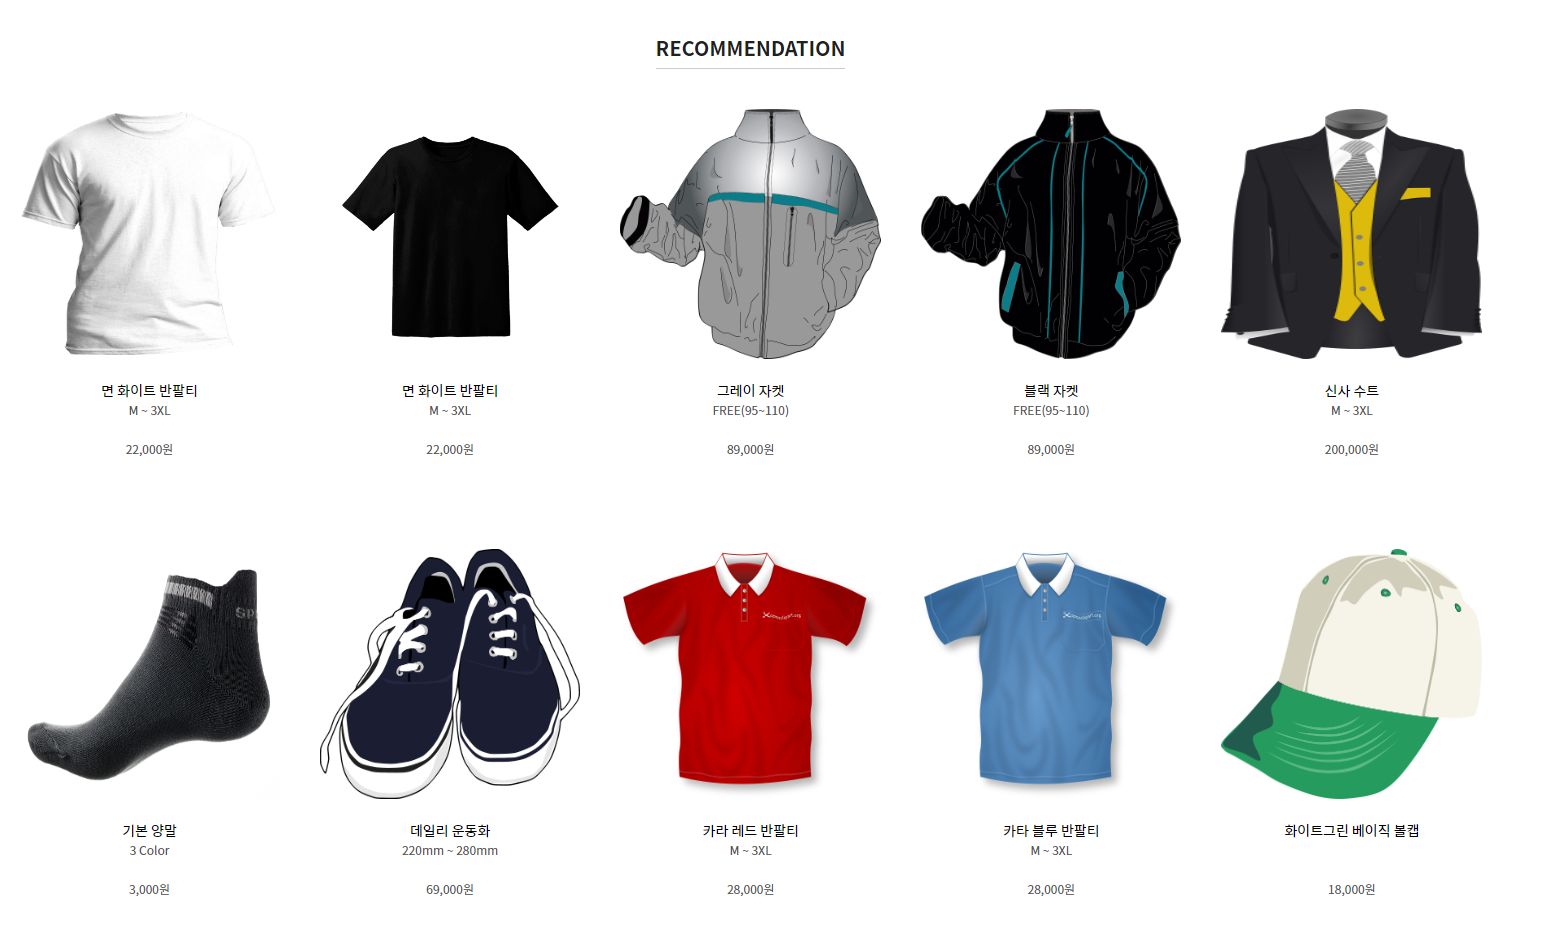
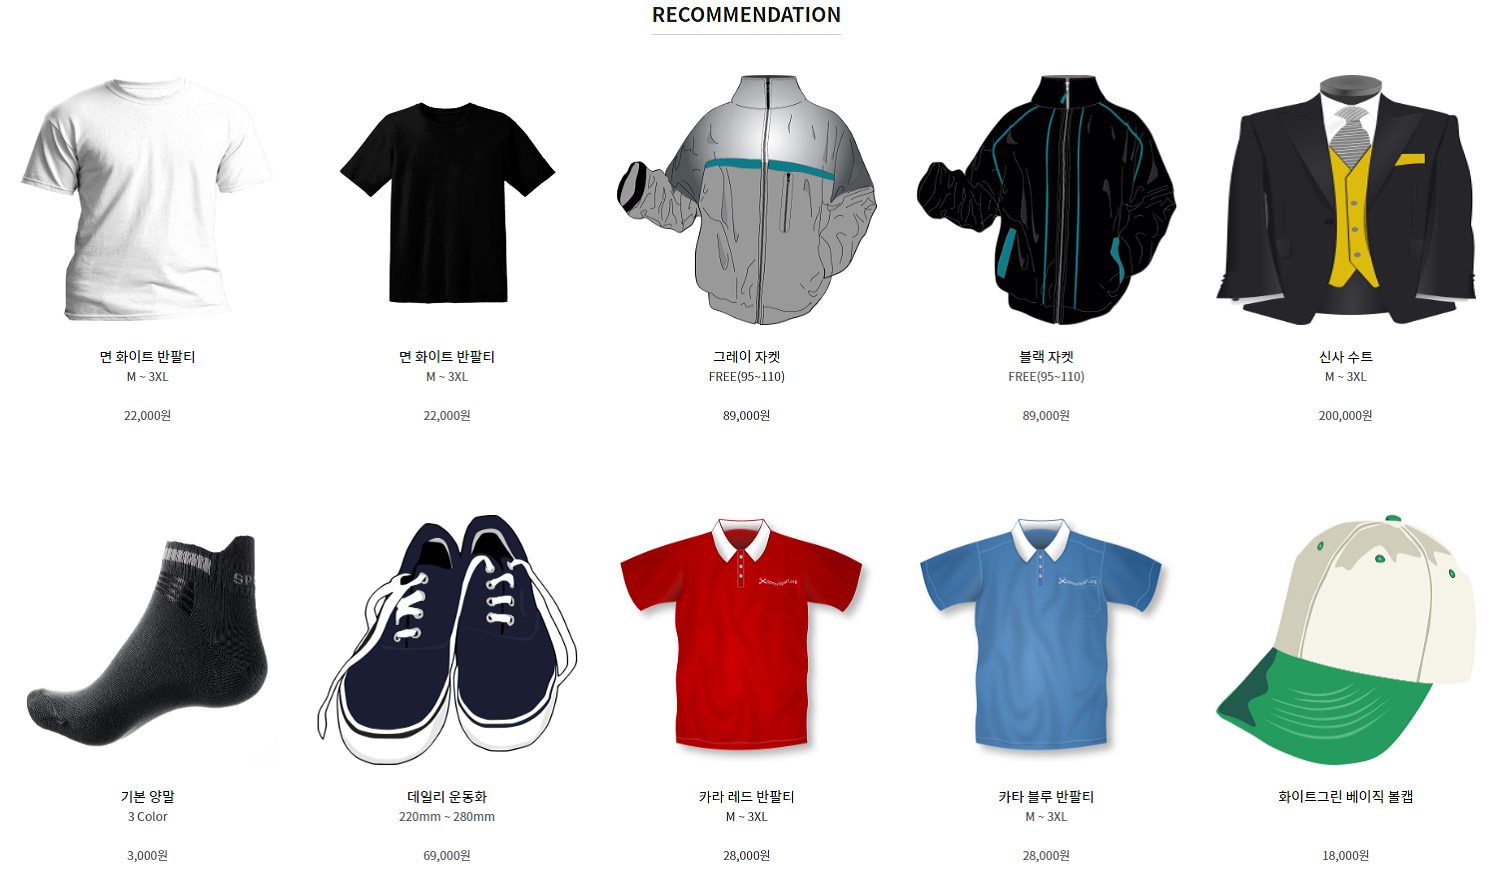
update

diff --git a/css/component.css b/css/component.css
@@ -1,42 +1,46 @@
 .component-h1 {
-    font-size: 48px;
-    text-align: center;
-    color: #000000;
-    margin: 0;
+  font-size: 48px;
+  text-align: center;
+  color: #000000;
+  margin: 0;
 }
 
 .component-content-container p {
-    line-height: 1.8rem;
-    margin: 0;
-    font-weight: 500;
+  line-height: 1.8rem;
+  margin: 0;
+  font-weight: 500;
 }
 
 .component-content-container h3 {
-    position: relative;
-    margin: 0;
-    font-weight: 600;
+  position: relative;
+  margin: 0;
+  font-weight: 600;
 }
 
 .component-content-container h3::after {
-    position: absolute;
-    content: "";
-    bottom: -7px;
-    left: 0;
-    width: 100%;
-    height: 1px;
-    background-color: rgba(0, 0, 0, 0.2);
+  position: absolute;
+  content: "";
+  bottom: -7px;
+  left: 0;
+  width: 100%;
+  height: 1px;
+  background-color: rgba(0, 0, 0, 0.2);
 }
 
 .component-imagebox-common {
-    display: flex;
-    flex-direction: column;
-    justify-content: center;
-    align-items: center;
-    margin-bottom: 150px;
-    padding: 20px 0;
-    background-color: #fafafa;
+  display: flex;
+  flex-direction: column;
+  justify-content: center;
+  align-items: center;
+  margin-bottom: 150px;
+  padding: 20px 0;
+  background-color: #fafafa;
+}
+
+.component-imagebox-common:last-child {
+  margin-bottom: 50px;
 }
 
 .component-imagebox-common img {
-    margin: 20px 0;
+  margin: 20px 0;
 }
